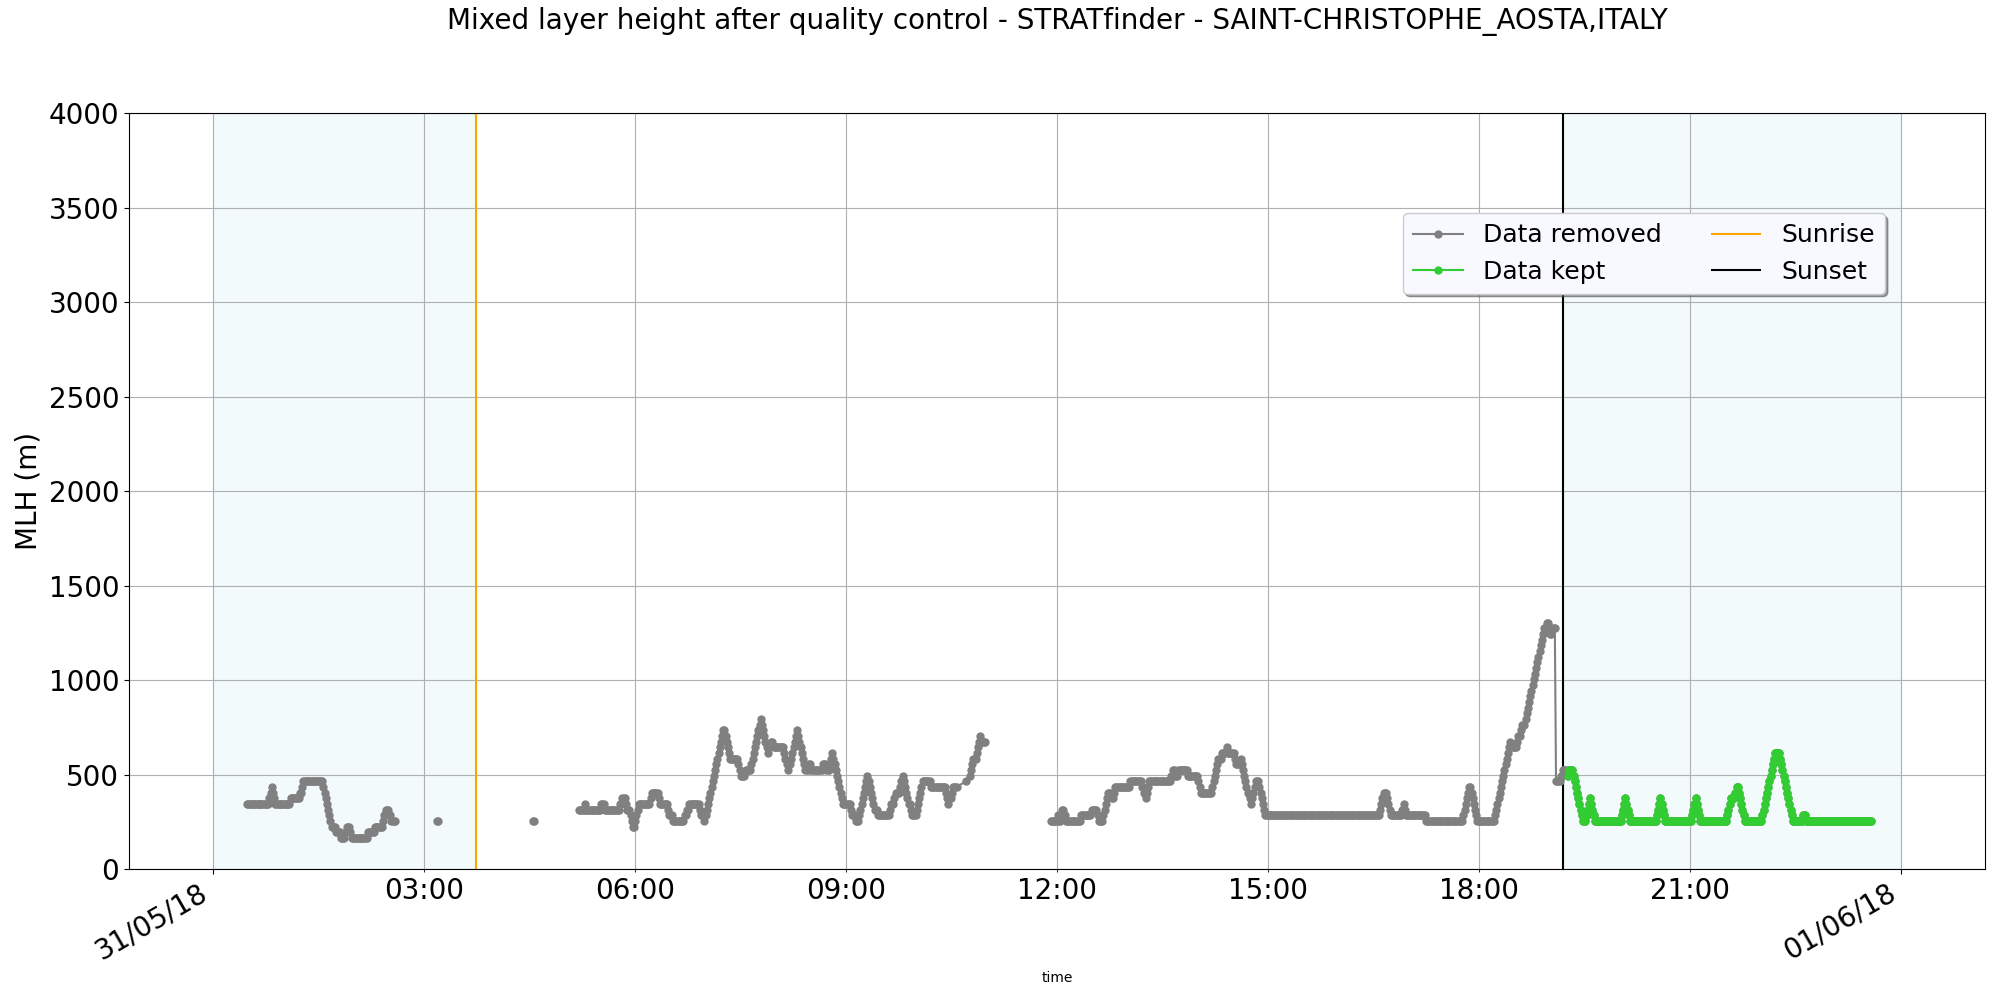
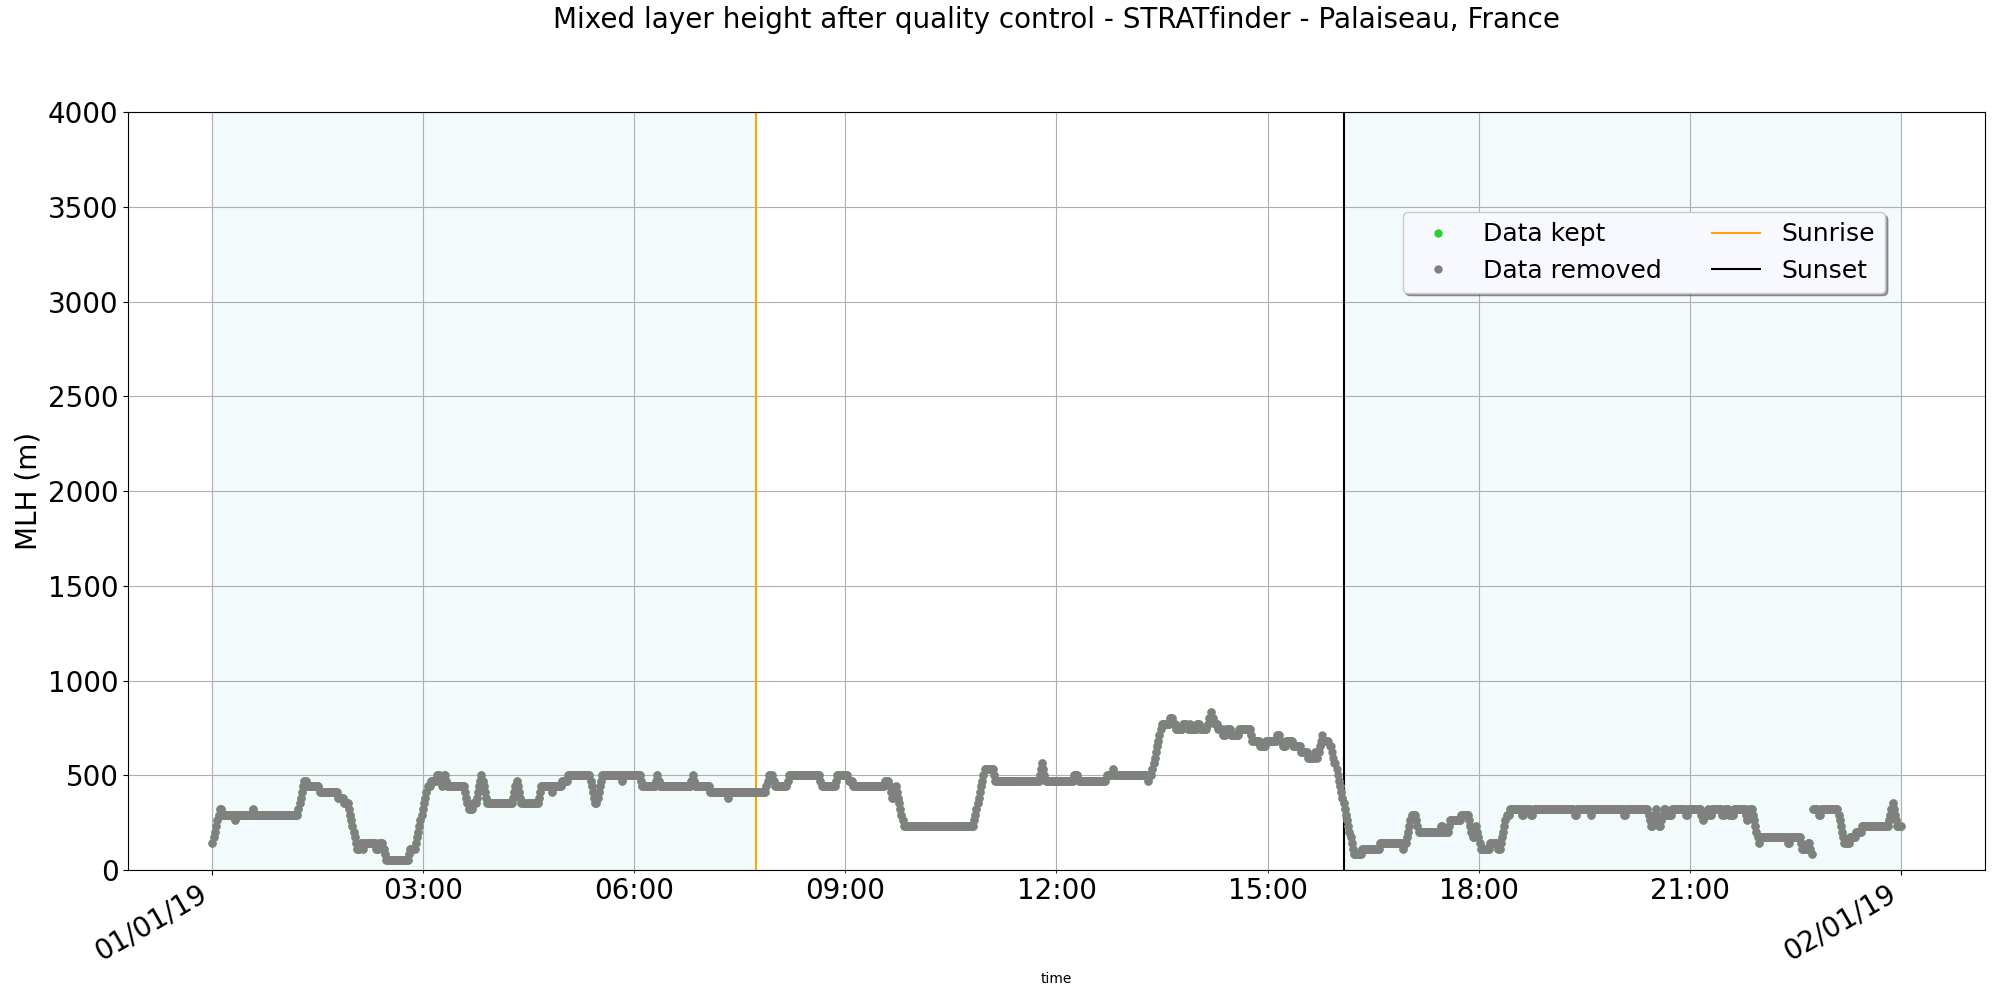
plot script improved

diff --git a/plot_daily.py b/plot_daily.py
@@ -41,6 +41,7 @@ if (isFile1 == True) & (isFile2 == True) :
     lat = df1.station_latitude[0]
     lon = df1.station_longitude[0] 
     sun = SolarTime()
+    
 
     date = date(int(df1.index.year[0]), int(df1.index.month[0]), int(df1.index.day[0]))
     schedule = sun.sun_utc(date, lat, lon) 
@@ -50,9 +51,10 @@ if (isFile1 == True) & (isFile2 == True) :
     x = df2.index.to_list()
     y = df1.MLH
     y2 = df2.MLH
-    print(x)
-    df1['MLH'].plot(x_compat=True, ax=ax, marker = '.', markersize = 10, color = 'grey', label = "Data removed")
-    df2['MLH'].plot(x_compat=True, ax=ax, marker = '.', markersize = 10, color = 'limegreen', label = "Data kept")
+    
+    
+    df1['MLH'].plot(x_compat=True, ax=ax, style = '.', markersize = 10, color = 'grey', label = "Data removed")
+    df2['MLH'].plot(x_compat=True, ax=ax, style='.', markersize = 10, color = 'limegreen', label = "Data kept")
 
     ax.xaxis.set_major_locator(mdates.DayLocator())
     ax.xaxis.set_major_formatter(mdates.DateFormatter('%d/%m/%y'))

diff --git a/qc_daily_final.py b/qc_daily_final.py
@@ -663,7 +663,9 @@ ds['FLAG'] = FLAG_QC.transpose("time", "station")
 ds.attrs['comment'] = "Mixed layer height after quality control"
 
 
-repo = git.Repo('/home/mvanhove/STRATfinder/scripts/qc-sf-python/')
+#repo = git.Repo('/home/mvanhove/STRATfinder/scripts/qc-sf-python/')
+dir_path = os.path.dirname(os.path.realpath(f'{sys.argv[0]}'))
+repo = git.Repo(f'{dir_path}')
 sha = repo.head.commit.hexsha
 ds.attrs['history'] = f"Git repository : git@gitlab.in2p3.fr:mvanhove/qc-sf-python.git  ;  Version of quality control code : {sha}"
                                 
